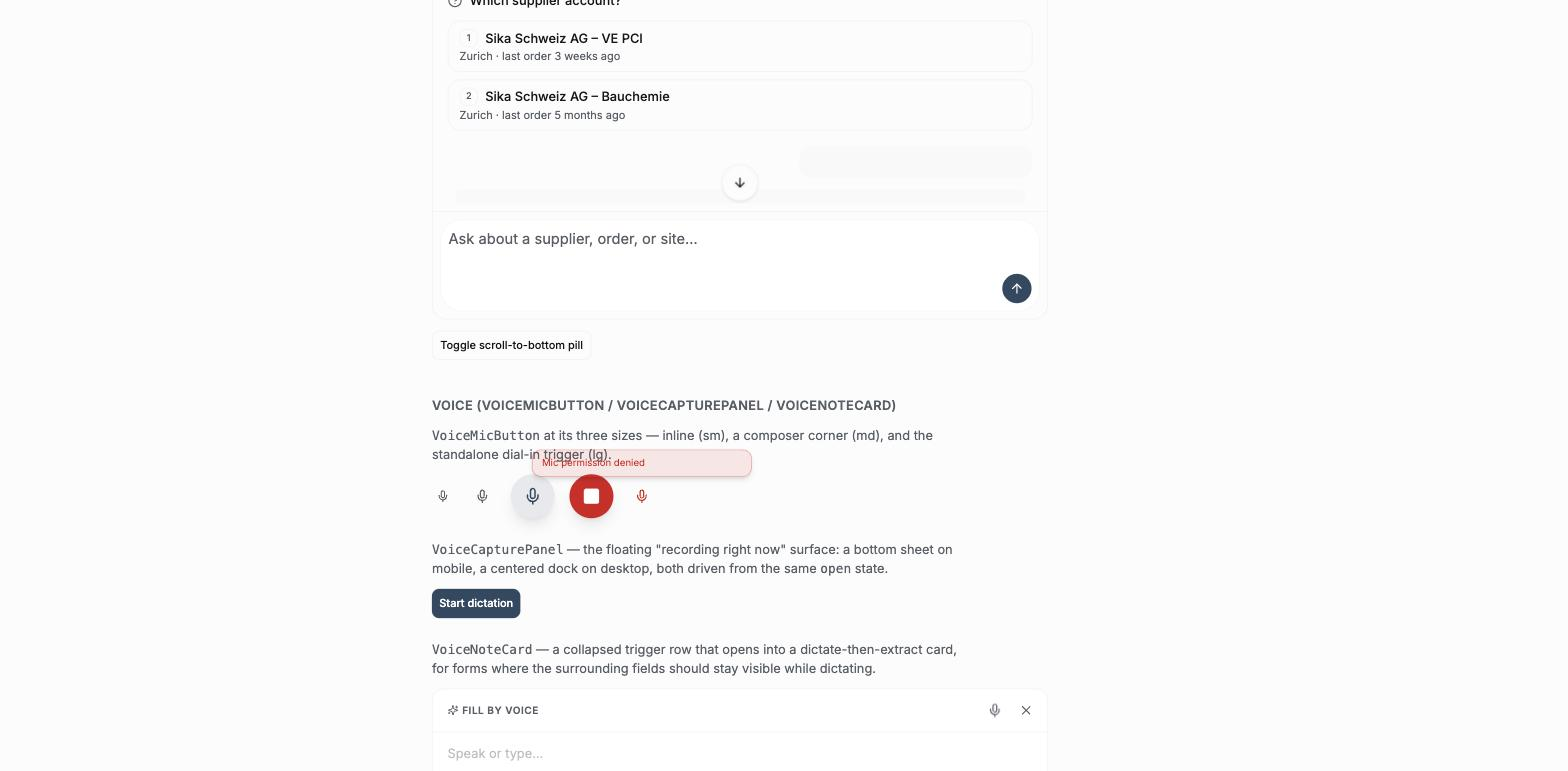
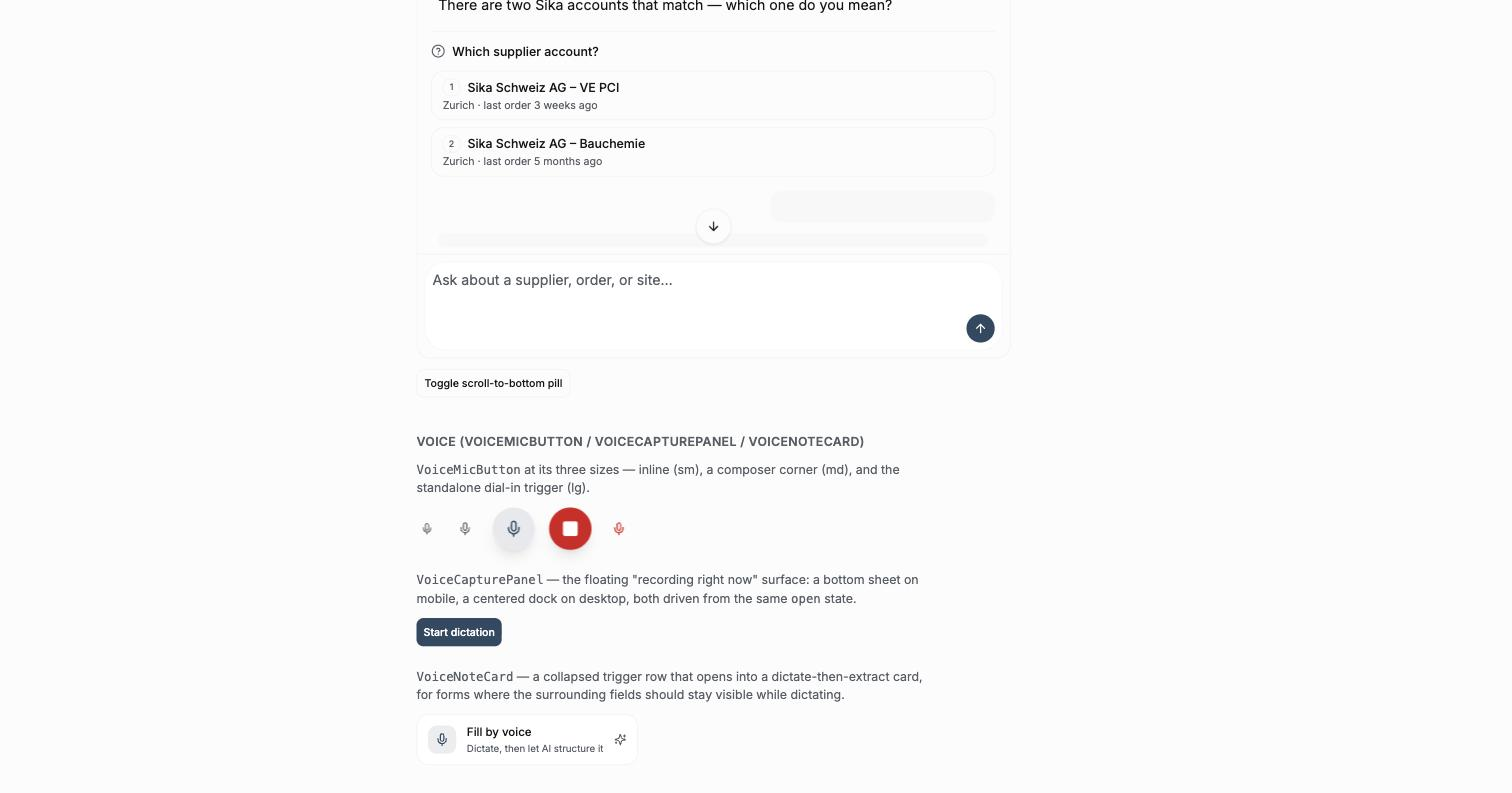
fix(ui): reveal VoiceMicButton error tooltip on hover/focus, not permanently
The error message was rendered at rest, floating above the button
regardless of interaction — in the demo it visibly collided with the
caption text right above the mic button row. Any layout with limited
space above the button would hit the same overlap. Now it behaves like
a normal tooltip: hidden until hover or focus.

diff --git a/packages/ui/src/patterns/voice/VoiceMicButton.tsx b/packages/ui/src/patterns/voice/VoiceMicButton.tsx
@@ -8,7 +8,7 @@ export interface VoiceMicButtonProps extends Omit<ButtonHTMLAttributes<HTMLButto
   state?: "idle" | "recording" | "transcribing";
   /** `sm`/`md` are inline sizes (a comment textarea's corner); `lg` is the standalone dial-in button. @default "md" */
   size?: "sm" | "md" | "lg";
-  /** Shown as a small tooltip above the button and swaps its color to destructive, without disabling it — the user should be able to just tap it again. */
+  /** Recolors the button to destructive and reveals a tooltip above it on hover/focus, without disabling it — the user should be able to just tap it again. */
   error?: string | null;
   onToggle?: () => void;
   labels?: { start?: string; stop?: string };
@@ -28,9 +28,12 @@ const DEFAULT_LABELS: Required<NonNullable<VoiceMicButtonProps["labels"]>> = {
  *
  * **`error` doesn't disable the button.** A failed connection or a denied
  * mic permission is a one-tap-away retry, not a dead end — the button stays
- * live and just recolors to `destructive` with the message in a tooltip
- * above it, mirroring the way this library treats recoverable errors
- * elsewhere (inline messages, not disabled controls).
+ * live and just recolors to `destructive`, mirroring the way this library
+ * treats recoverable errors elsewhere (inline messages, not disabled
+ * controls). The message itself only appears on hover/focus, like a native
+ * tooltip — rendering it at rest would float above the button permanently
+ * and collide with whatever content sits just above it in the caller's
+ * layout.
  *
  * **Sizing floor.** `lg` (48px) already clears the WCAG 2.5.8 minimum on its
  * own. `sm`/`md` render smaller (24px/30px) for contexts like an inline
@@ -48,7 +51,7 @@ export const VoiceMicButton = forwardRef<HTMLButtonElement, VoiceMicButtonProps>
     const icon = size === "sm" ? "size-3.5" : size === "lg" ? "size-5" : "size-4";
 
     return (
-      <div className="relative inline-flex flex-col items-center">
+      <div className="group relative inline-flex flex-col items-center">
         <button
           ref={ref}
           type="button"
@@ -89,7 +92,7 @@ export const VoiceMicButton = forwardRef<HTMLButtonElement, VoiceMicButtonProps>
           <div
             data-slot="voice-mic-error"
             role="alert"
-            className="absolute bottom-full left-1/2 mb-1.5 w-60 -translate-x-1/2 rounded-lg border border-destructive/30 bg-destructive/10 px-2.5 py-1.5 text-[10.5px] text-destructive shadow-md"
+            className="pointer-events-none absolute bottom-full left-1/2 z-10 mb-1.5 w-60 -translate-x-1/2 rounded-lg border border-destructive/30 bg-destructive/10 px-2.5 py-1.5 text-[10.5px] text-destructive opacity-0 shadow-md transition-opacity group-hover:opacity-100 group-focus-within:opacity-100"
           >
             {error}
           </div>
